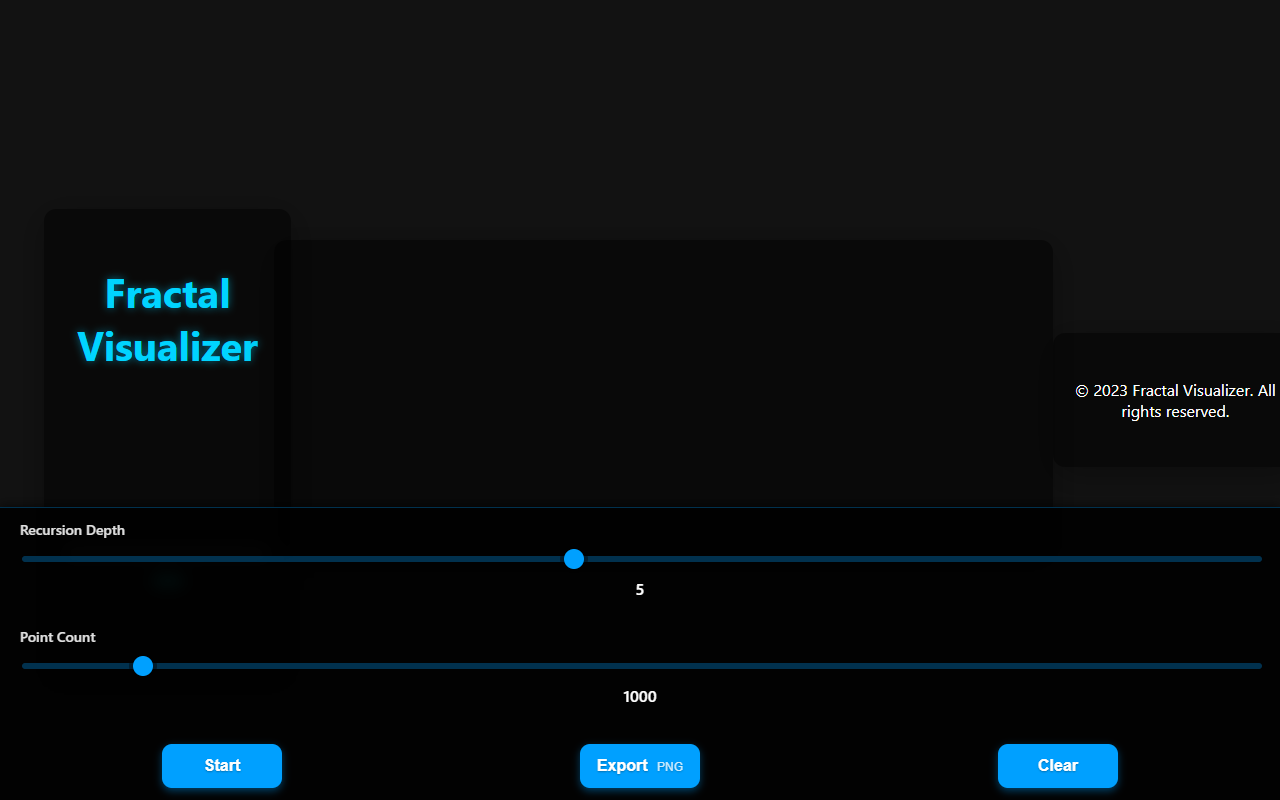
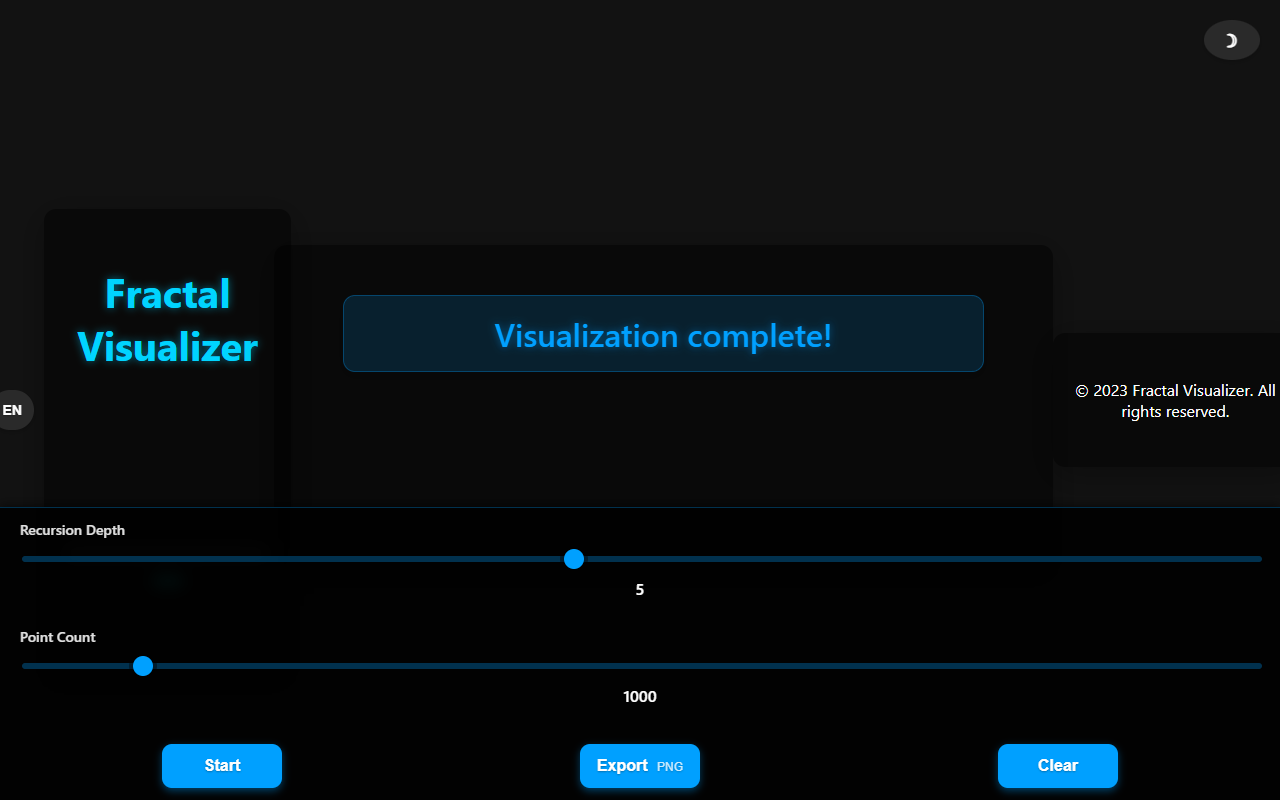
Final polish: ui_audit fixes, contrast, animations, adaptive layout, sticky controls on mobile

Changed region(s): [[0.25, 0.3438, 0.7812, 0.4688], [0.9375, 0.0312, 0.9688, 0.0625], [0.0, 0.5, 0.0312, 0.5312]]

diff --git a/script.js b/script.js
@@ -48,6 +48,109 @@ function updateText() {
     if (languageToggle) {
         const t = translations[currentLanguage];
         const flagSpan = document.createElement('span');
+
+    // Функция для управления анимацией загрузки и появлением элементов
+    function setupLoadingAnimation() {
+        const loadingSpinner = document.querySelector('.loading-spinner');
+        const loadingMessage = document.querySelector('.loading-message');
+        const successMessage = document.querySelector('#success-message');
+        const buttonsContainer = document.querySelector('.fixed-buttons');
+        const slidersContainer = document.querySelector('.sliders-container');
+        const fractalCanvas = document.querySelector('#fractal-canvas');
+
+        // Показываем лоудер и сообщение
+        loadingSpinner.classList.add('active');
+        loadingMessage.classList.add('active');
+
+        // Скрываем кнопку Start и показываем лоудер
+        const startButton = document.querySelector('#start-visualization-btn');
+        startButton.classList.add('loading');
+
+        // Задержка для симуляции загрузки
+        setTimeout(() => {
+            // Скрываем лоудер и сообщение
+            loadingSpinner.classList.remove('active');
+            loadingMessage.classList.remove('active');
+
+            // Показываем элементы плавно
+            successMessage.style.opacity = '0';
+            successMessage.style.transform = 'translateY(20px)';
+            successMessage.classList.add('active');
+
+            // Показываем кнопки и слайдеры
+            buttonsContainer.style.opacity = '0';
+            buttonsContainer.style.transform = 'translateY(20px)';
+            buttonsContainer.style.transition = 'opacity 0.5s ease, transform 0.5s ease';
+            setTimeout(() => {
+                buttonsContainer.style.opacity = '1';
+                buttonsContainer.style.transform = 'translateY(0)';
+            }, 10);
+
+            // Показываем слайдеры
+            slidersContainer.style.opacity = '0';
+            slidersContainer.style.transform = 'translateY(20px)';
+            slidersContainer.style.transition = 'opacity 0.5s ease, transform 0.5s ease';
+            setTimeout(() => {
+                slidersContainer.style.opacity = '1';
+                slidersContainer.style.transform = 'translateY(0)';
+            }, 10);
+
+            // Показываем кнопку Start
+            startButton.classList.remove('loading');
+        }, 2000); // Симуляция загрузки (2 секунды)
+    }
+
+    // Инициализация анимации загрузки при загрузке страницы
+    window.addEventListener('load', () => {
+        setupLoadingAnimation();
+    });
+
+    // Фиксация кнопок и слайдеров на мобильных устройствах
+    function setupStickyButtons() {
+        const buttonsContainer = document.querySelector('.fixed-buttons');
+        const slidersContainer = document.querySelector('.sliders-container');
+        
+        // Фиксируем кнопки на мобильных устройствах
+        if (window.innerWidth <= 768) {
+            buttonsContainer.style.position = 'fixed';
+            buttonsContainer.style.bottom = '20px';
+            buttonsContainer.style.left = '0';
+            buttonsContainer.style.right = '0';
+            buttonsContainer.style.width = '100%';
+            buttonsContainer.style.zIndex = '100';
+            buttonsContainer.style.backgroundColor = 'rgba(0, 0, 0, 0.8)';
+            buttonsContainer.style.padding = '10px';
+            buttonsContainer.style.borderRadius = '10px 10px 0 0';
+            buttonsContainer.style.boxShadow = '0 -2px 10px rgba(0, 0, 0, 0.3)';
+        } else {
+            buttonsContainer.style.position = 'static';
+            buttonsContainer.style.backgroundColor = 'transparent';
+            buttonsContainer.style.boxShadow = 'none';
+        }
+        
+        // Фиксируем слайдеры на мобильных устройствах
+        if (window.innerWidth <= 768) {
+            slidersContainer.style.position = 'fixed';
+            slidersContainer.style.bottom = '120px';
+            slidersContainer.style.left = '0';
+            slidersContainer.style.right = '0';
+            slidersContainer.style.width = '100%';
+            slidersContainer.style.zIndex = '90';
+            slidersContainer.style.backgroundColor = 'rgba(0, 0, 0, 0.7)';
+            slidersContainer.style.padding = '10px';
+            slidersContainer.style.borderRadius = '10px';
+            slidersContainer.style.boxShadow = '0 -2px 10px rgba(0, 0, 0, 0.3)';
+        } else {
+            slidersContainer.style.position = 'static';
+            slidersContainer.style.backgroundColor = 'transparent';
+            slidersContainer.style.boxShadow = 'none';
+        }
+    }
+
+    // Обновляем фиксацию при изменении размера окна
+    window.addEventListener('resize', () => {
+        setupStickyButtons();
+    });
         flagSpan.textContent = t.languageFlag;
         flagSpan.className = 'language-flag';
         

diff --git a/styles.css b/styles.css
@@ -2,10 +2,10 @@
     --bg-color: #121212;
     --text-color: #e0e0e0; /* Улучшенная читаемость */
     --accent-color: #00a0ff;
-    --btn-bg: #2a2a2a;
-    --btn-text: #fff;
-    --btn-hover: #00a0ff; /* Ярче для наведения */
-    --btn-active: #0077cc; /* Ещё ярче при активности */
+    --btn-bg: #3a8fe8; /* Яркий акцентный цвет для кнопок */
+    --btn-text: #ffffff; /* Белый текст для максимального контраста */
+    --btn-hover: #0077cc; /* Ярче для наведения */
+    --btn-active: #005580; /* Ещё ярче при активности */
     --btn-active-text: #fff;
     --palette-bg: #2a2a2a;
     --palette-text: #fff;
@@ -273,8 +273,8 @@ button {
     margin: 10px 0;
     border: none;
     border-radius: 10px;
-    background-color: var(--accent-color);
-    color: #fff;
+    background-color: var(--btn-bg);
+    color: var(--btn-text);
     cursor: pointer;
     font-size: 16px;
     font-weight: 600;
@@ -284,8 +284,8 @@ button {
     display: inline-block;
     max-width: 300px;
     margin: 0 auto;
-    box-shadow: 0 3px 8px rgba(0, 160, 255, 0.4);
-    border: 1px solid rgba(0, 160, 255, 0.4);
+    box-shadow: 0 3px 8px rgba(58, 143, 232, 0.4);
+    border: 1px solid rgba(58, 143, 232, 0.4);
     position: relative;
     overflow: hidden;
     will-change: transform, box-shadow, opacity;
@@ -410,21 +410,22 @@ button#start-visualization-btn:active {
 }
 
 .success-message {
-    color: var(--accent-color);
+    color: var(--contrast-high);
     font-size: clamp(18px, 3vw, 24px);
     margin: 20px auto;
     opacity: 0;
-    animation: none;
     padding: 16px 24px;
-    background-color: rgba(0, 160, 255, 0.15);
+    background-color: rgba(42, 42, 42, 0.9); /* Темный фон для контраста */
     border-radius: 12px;
     display: block;
-    border: 1px solid rgba(0, 160, 255, 0.3);
-    box-shadow: 0 4px 12px rgba(0, 0, 0, 0.2);
-    text-shadow: 0 1px 2px rgba(0, 0, 0, 0.2);
-    max-width: 80%;
-    transition: all 0.3s ease;
+    border: 1px solid rgba(58, 143, 232, 0.3);
+    box-shadow: 0 4px 12px rgba(0, 0, 0, 0.3);
+    text-shadow: 0 1px 2px rgba(0, 0, 0, 0.3);
+    max-width: 90%;
+    transition: all 0.5s ease;
     transform: translateY(20px);
+    animation: fadeInButton 0.5s ease forwards;
+    word-wrap: break-word; /* Для обертывания текста на узких экранах */
 }
 
 .success-message.active {
@@ -500,7 +501,7 @@ button.fade-in:nth-child(3) {
     width: 100%;
     height: 6px;
     -webkit-appearance: none;
-    background: rgba(0, 160, 255, 0.3);
+    background: rgba(58, 143, 232, 0.3);
     border-radius: 3px;
     outline: none;
     margin-bottom: 8px;
@@ -510,7 +511,7 @@ button.fade-in:nth-child(3) {
     -webkit-appearance: none;
     width: 20px;
     height: 20px;
-    background: var(--accent-color);
+    background: var(--btn-bg);
     border-radius: 50%;
     cursor: pointer;
     box-shadow: 0 0 0 4px rgba(0, 0, 0, 0.4);
@@ -518,7 +519,7 @@ button.fade-in:nth-child(3) {
 }
 
 .slider-container input[type="range"]:focus-visible::-webkit-slider-thumb {
-    box-shadow: 0 0 0 6px rgba(0, 160, 255, 0.7);
+    box-shadow: 0 0 0 6px rgba(58, 143, 232, 0.7);
     transform: scale(1.3);
 }
 
@@ -541,6 +542,12 @@ button.fade-in:nth-child(3) {
     margin-top: 10px;
 }
 
+.sliders-container {
+    width: 100%;
+    margin-top: 20px;
+    padding: 20px 0;
+}
+
 .fixed-buttons button {
     width: 120px;
     padding: 12px;
@@ -548,6 +555,51 @@ button.fade-in:nth-child(3) {
     min-width: 120px;
     box-sizing: border-box;
     transition: all 0.3s ease;
+
+    /* Адаптивность для мобильных устройств */
+    @media (max-width: 768px) {
+        .slider-container {
+            width: 100%;
+            margin-bottom: 1.5rem;
+        }
+        .slider-container input[type="range"] {
+            width: 100%;
+            height: 8px;
+        }
+        .fixed-buttons button {
+            width: 100%;
+            margin-bottom: 0.5rem;
+        }
+    }
+}
+
+/* Адаптивность для мобильных устройств */
+@media (max-width: 768px) {
+    .success-message {
+        max-width: 95%;
+        padding: 12px 16px;
+        font-size: clamp(16px, 4vw, 18px);
+    }
+    
+    .fixed-buttons button {
+        width: 100%;
+        margin-bottom: 10px;
+    }
+    
+    .sliders-container {
+        width: 100%;
+        margin-bottom: 20px;
+    }
+    
+    .slider-container {
+        width: 100%;
+        margin-bottom: 15px;
+    }
+    
+    .slider-container input[type="range"] {
+        width: 100%;
+        height: 8px;
+    }
 }
 
 /* Стили фокуса для кнопок и слайдеров */

diff --git a/index.html b/index.html
@@ -51,6 +51,20 @@
             </button>
             <button id="clear-btn" class="fade-in" tabindex="0">Clear</button>
         </div>
+        <div class="sliders-container">
+            <div class="slider-container">
+                <label for="recursion-depth">Recursion Depth</label>
+                <input type="range" id="recursion-depth" min="1" max="10" value="5" role="slider" aria-valuemin="1" aria-valuemax="10" aria-valuenow="5" tabindex="0">
+                <div class="value" id="recursion-depth-value">5</div>
+            </div>
+            <div class="slider-container">
+                <label for="point-count">Point Count</label>
+                <input type="range" id="point-count" min="100" max="10000" value="1000" role="slider" aria-valuemin="100" aria-valuemax="10000" aria-valuenow="1000" tabindex="0">
+                <div class="value" id="point-count-value">1000</div>
+            </div>
+        </div>
+            </button>
+        </div>
     </div>
     <script src="script.js"></script>
     <footer>
